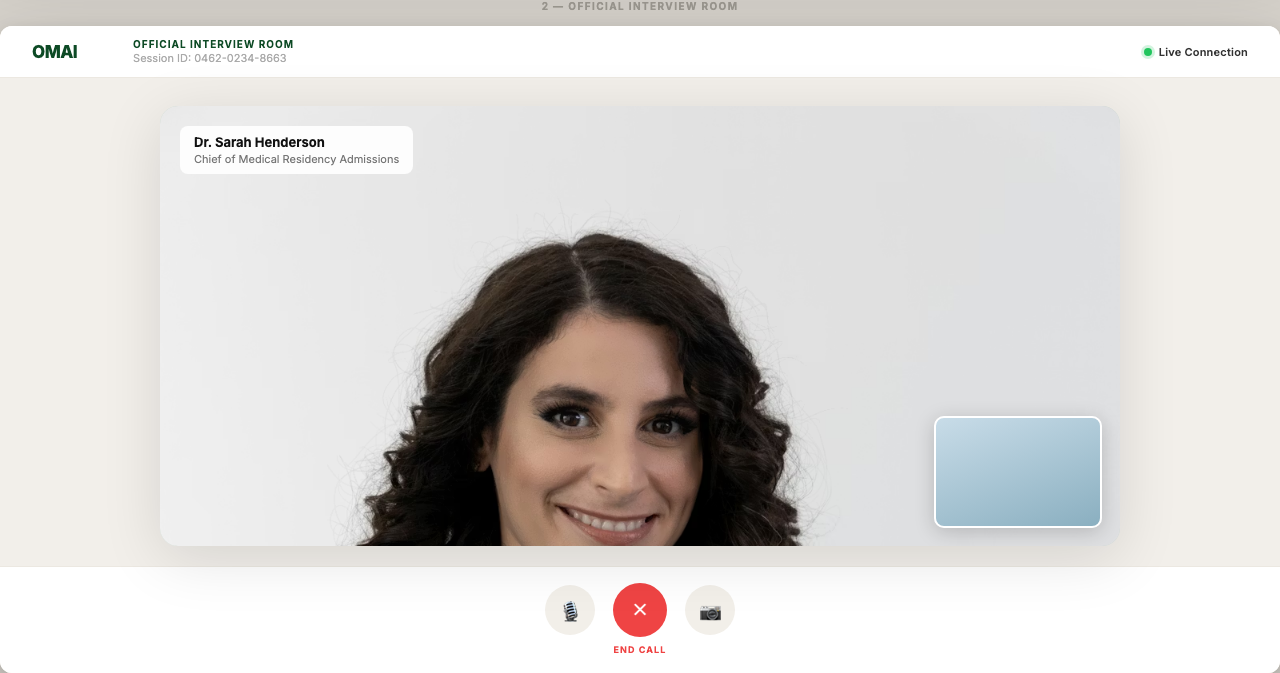
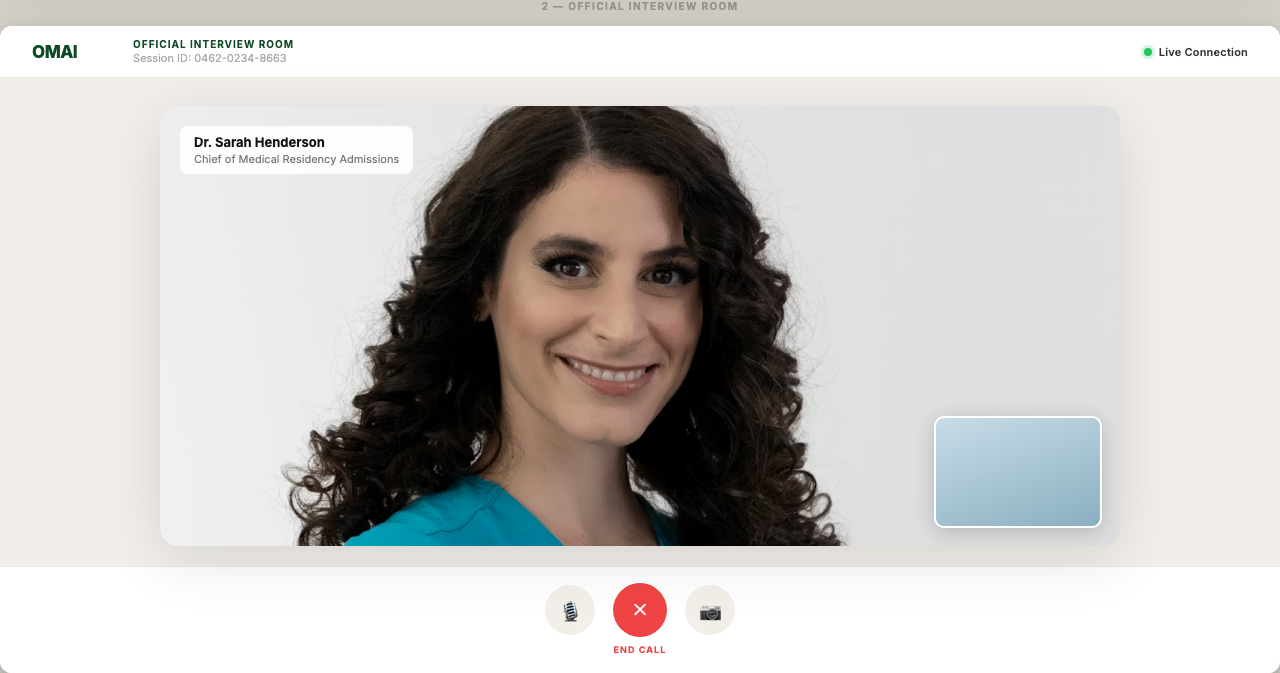
Fix screen 2 video crop: show full head of interviewer

Changed region(s): [[0.2188, 0.156, 0.6562, 0.8113]]

diff --git a/omai-interview/mockup.html b/omai-interview/mockup.html
@@ -479,7 +479,7 @@ body {
   width: 100%;
   height: 100%;
   object-fit: cover;
-  object-position: center top;
+  object-position: center 15%;
   display: block;
 }
 .video-silhouette {
